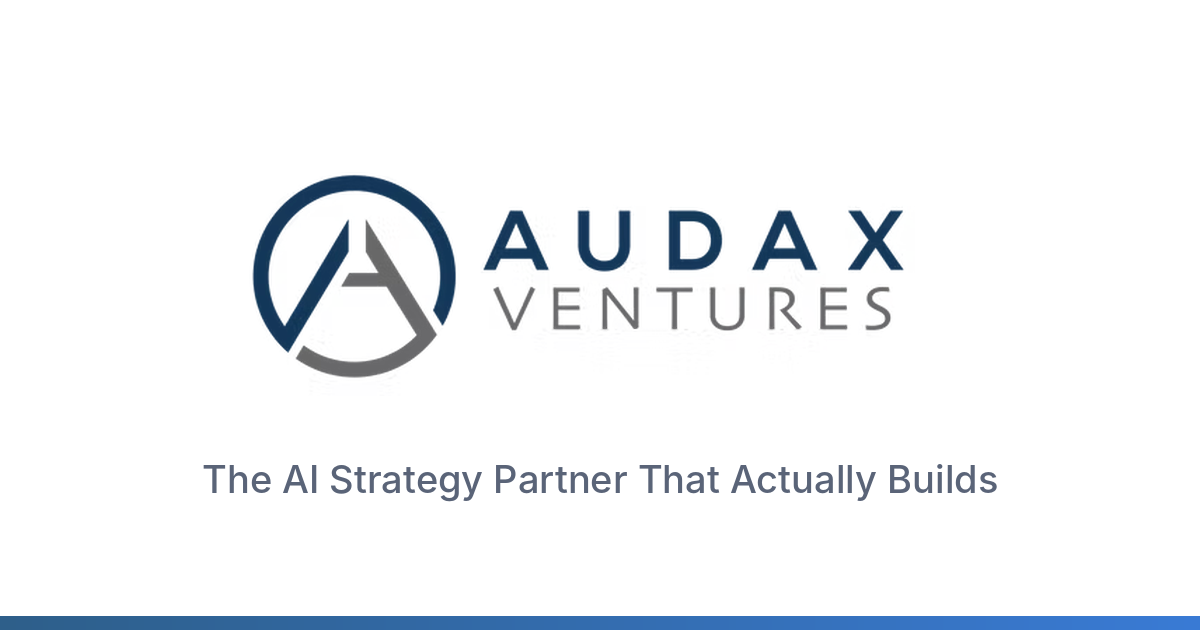
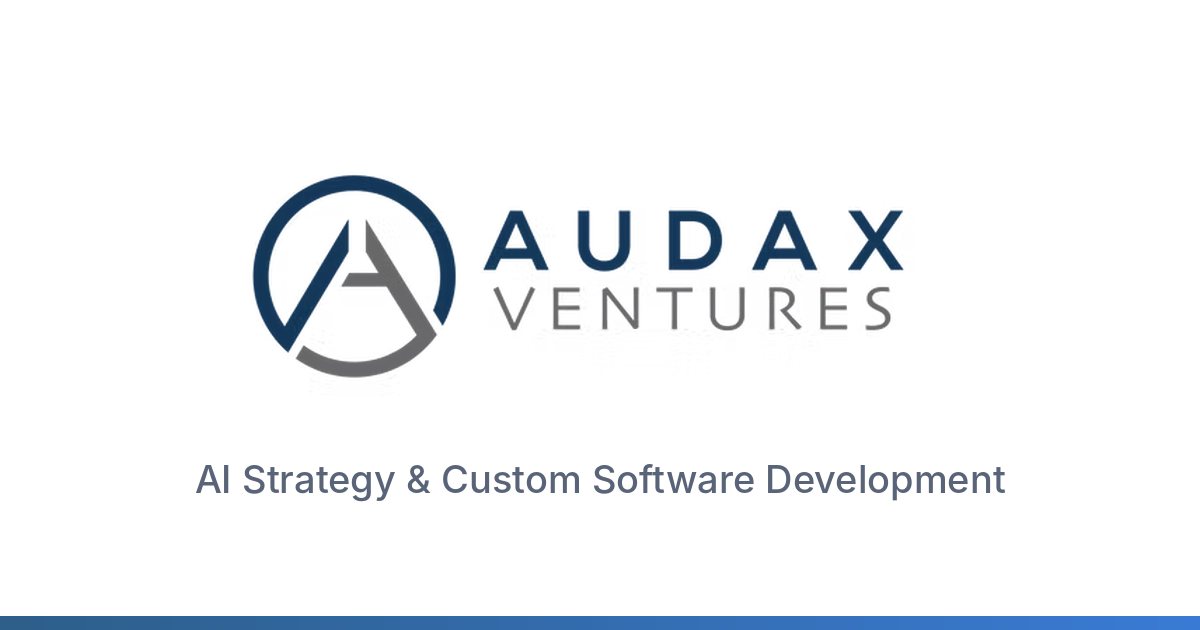
Match homepage title, description and share image to new tagline
Claude-Session: https://claude.ai/code/session_01K33uLYDEjkmM6EWJbXxyH8

Changed region(s): [[0.1542, 0.7238, 0.8325, 0.8143]]

diff --git a/app/page.tsx b/app/page.tsx
@@ -10,9 +10,9 @@ import FractionalCaioSpotlight from "@/components/sections/FractionalCaioSpotlig
 import { defaultOgImage } from "@/lib/og-image";
 
 export const metadata: Metadata = {
-  title: "Audax Ventures — The AI Strategy Partner That Actually Builds",
+  title: "Audax Ventures — AI Strategy & Custom Software Development",
   description:
-    "Fractional CAIO leadership and custom AI software that help organizations operate smarter, move faster, and create measurable impact. Book a free strategy call today.",
+    "Fractional CAIO leadership and custom software solutions that help organizations operate smarter, move faster, and create measurable impact. Book a free strategy call today.",
   openGraph: {
     images: [defaultOgImage],
     title: "Audax Ventures — AI Strategy & Custom Software Development",

diff --git a/lib/og-image.ts b/lib/og-image.ts
@@ -4,5 +4,5 @@ export const defaultOgImage = {
   url: "/opengraph-image.png",
   width: 1200,
   height: 630,
-  alt: "Audax Ventures — The AI Strategy Partner That Actually Builds",
+  alt: "Audax Ventures — AI Strategy & Custom Software Development",
 };
